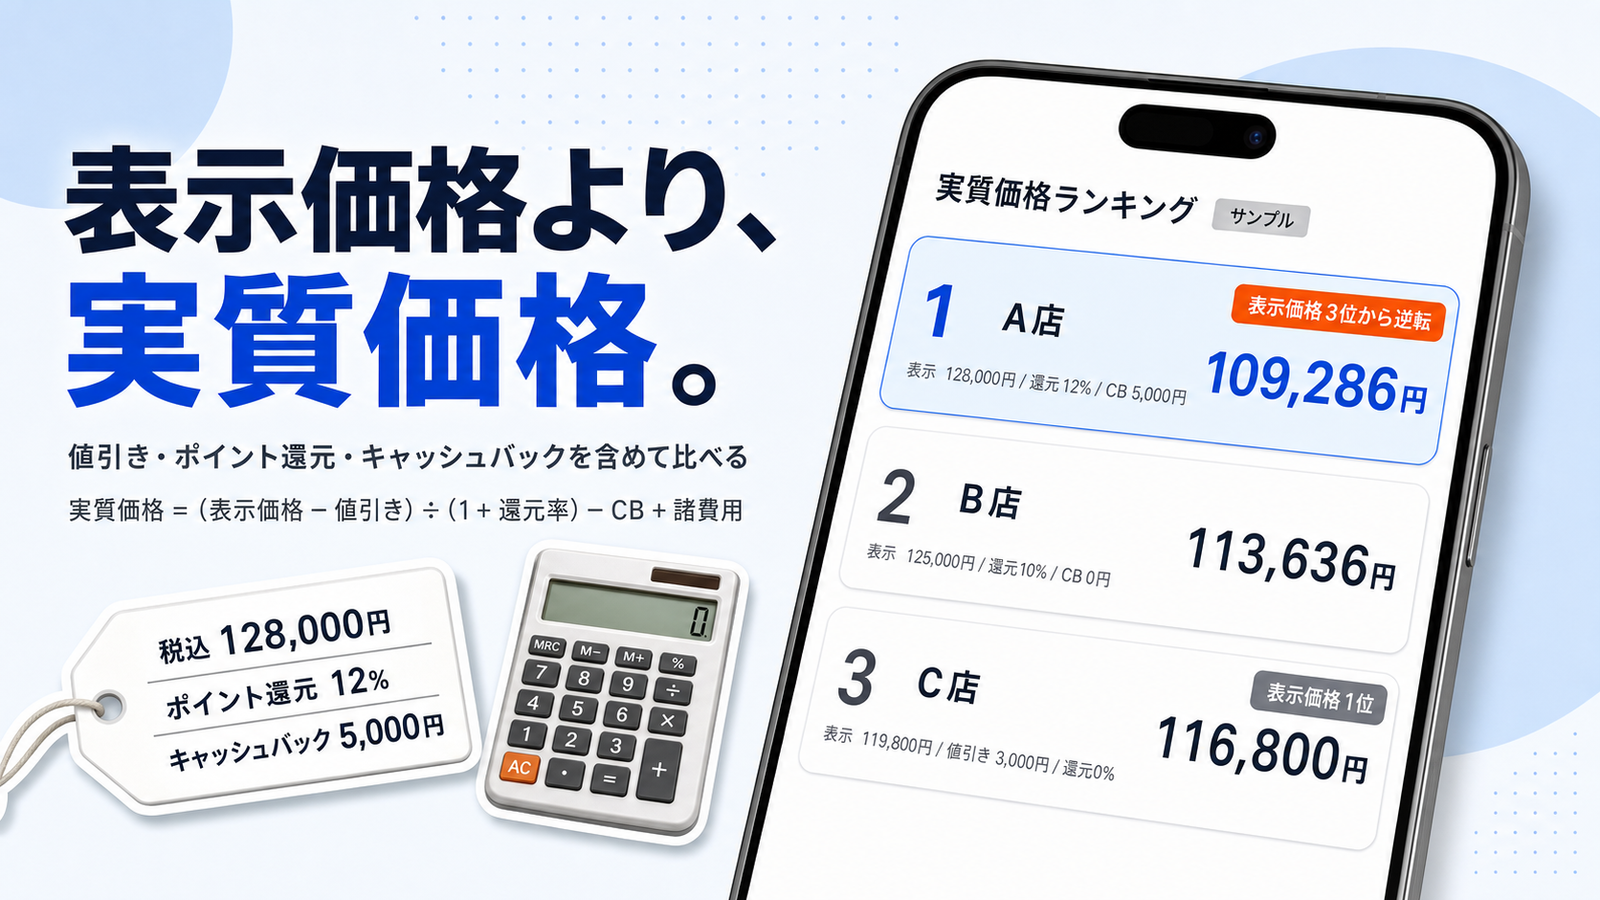
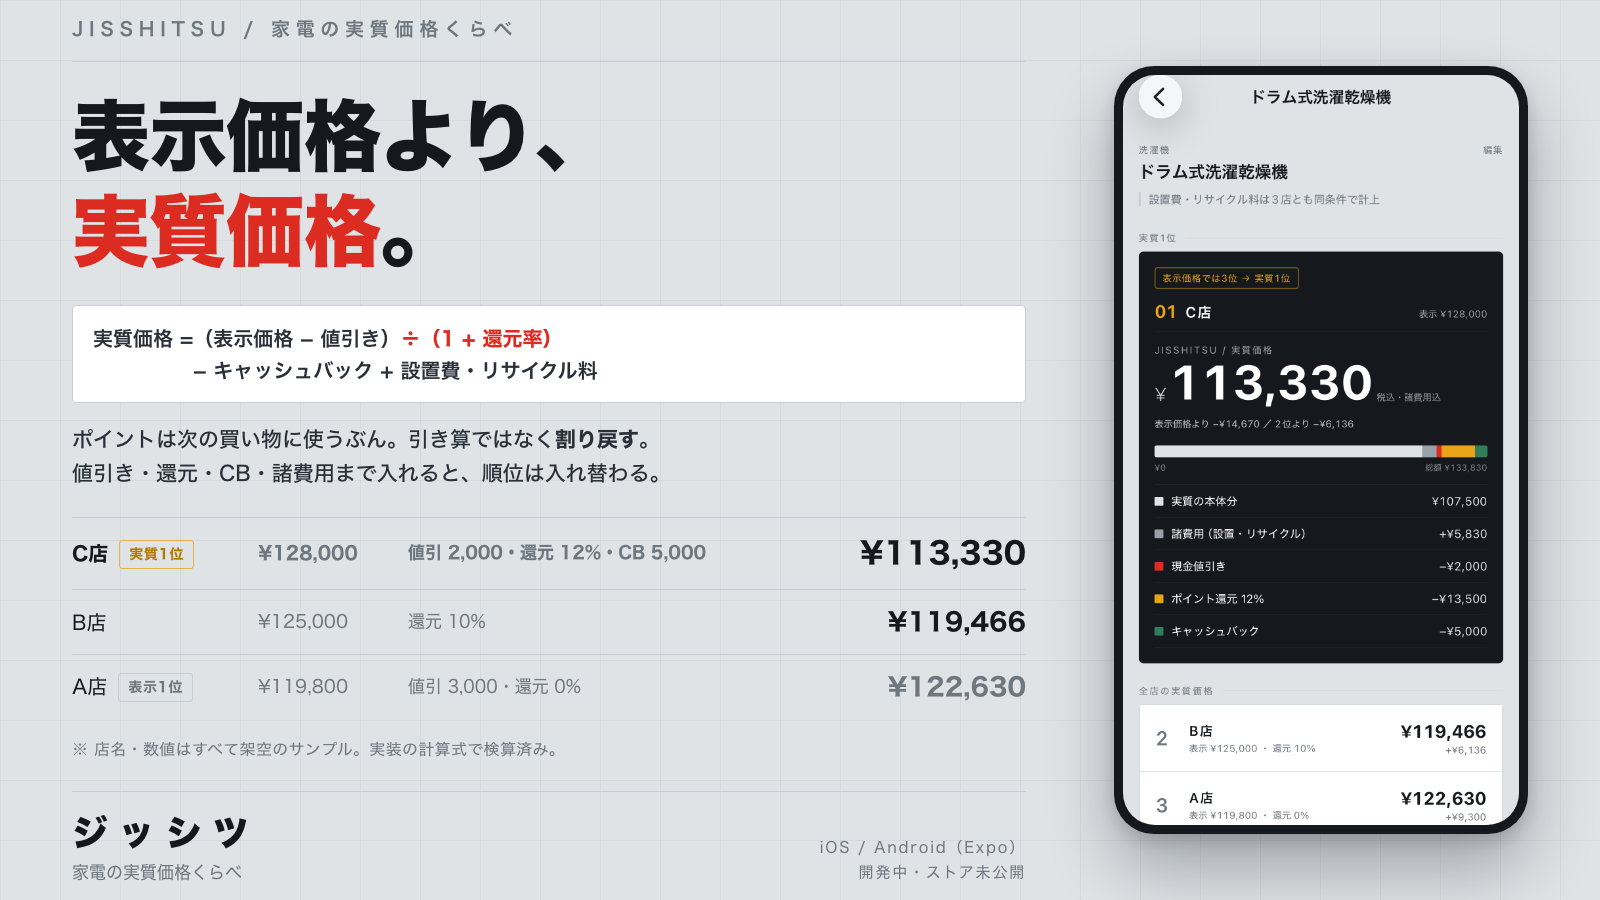
ジッシツ: コンセプト画像を実装のスクリーンショットから作り直し
旧版はCodex生成で、描かれたUIが実装と別物（青基調の創作画面）だった。
iOSシミュレータで実装を動かした実スクリーンショットに差し替え、
配色も mobile/src/theme.ts の値に合わせた。店名は A店/B店/C店 のまま。

diff --git a/jisshitsu/README.md b/jisshitsu/README.md
@@ -14,3 +14,6 @@
 ![コンセプト画像](concept.png)
 
 **画像内の店名・価格はすべて架空のサンプルです。** 実在の店舗の価格情報ではありません。
+
+端末に写っている画面は、実装をiOSシミュレータで動かした実際のスクリーンショットです
+（2026-08-04 更新）。アプリはまだストアで公開していません。
